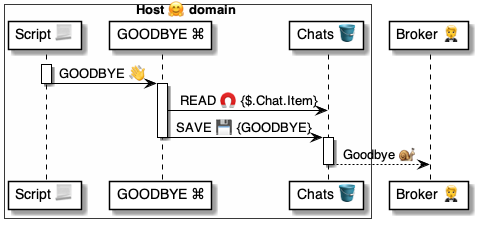
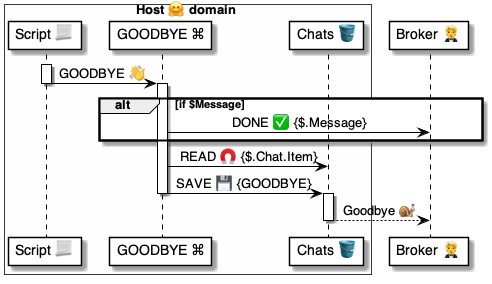
.

diff --git a/4 ⚙ Solution/41 🎭 Domain Roles/Issuers 🎴/🎴⌘ Issuer cmds/ISSUE 🎫/🎫 ISSUE ⌘ cmd.md b/4 ⚙ Solution/41 🎭 Domain Roles/Issuers 🎴/🎴⌘ Issuer cmds/ISSUE 🎫/🎫 ISSUE ⌘ cmd.md
@@ -27,7 +27,6 @@
 
 1. **What does a [Chat 💬](<../../../../35 💬 Chats/Chats 💬/💬 Chat.md>) look like?**
 
-    
     | [Domain](<../../../../40 👥 Domains/👥 Domain/👥 Domain.md>) | [Prompt](<../../../../35 💬 Chats/Chats 💬/🤔 Prompt.md>) | [User](<../../../../20 🧑🦰 UI/Wallets 🧑🦰/🧑🦰 Wallet app/🧑🦰 Wallet 🛠 app.md>)
     | - | - | - |
     | 🎴 [Issuer](<../../../../41 🎭 Domain Roles/Issuers 🎴/🎴 Issuer/🎴🎭 Issuer role.md>) | ℹ Issuing your token...
@@ -40,28 +39,46 @@
 1. **What's the ISSUE syntax?**
 
     ```yaml
-    ISSUE <schema> >> $token:
+    ISSUE >> $token:
+        Token: <token-uuid>
         Schema: <schema>
         Starts: <iso-utc-date>
         Expires: <iso-utc-date>
-        Properties: 
-            {properties}
-        Internals:
-            {internals}
+        Context: {A:1,B:2}
     ```
 
    
     | Input| Purpose | Example
     |-|-|-
     | `$token`| The [Token 🎫](<../../../../30 🧩 Data/Tokens 🎫/🎫 Token/🎫 Token.md>) issued | `{Token:X, Schema:Y}`| `Schema`  | The [Schema 🧩](<../../../../30 🧩 Data/Codes 🧩/🧩 Schema Code.md>) | `.TOKEN:1.0`
+    | `Token` | [Token 🎫](<../../../../30 🧩 Data/Tokens 🎫/🎫 Token/🎫 Token.md>) ID | `<token-uuid>`
+    || Defaults to [`.UUID`](<../../../../37 Scripts 📃/📃 Functions 🐍/🐍 System 🔩 functions/UUID ⓕ.md>)
     | `Starts` | Optional ISO UTC date | `2024-09-21T12:34:00Z`
+    |           | Defaults to [`.Now`](<../../../../37 Scripts 📃/📃 Functions 🐍/🐍 System 🔩 functions/Now ⓕ.md>)
     | `Expires` | Optional ISO UTC date | `2024-09-21T12:34:00Z`
-    | `Properties`| User public properties | `{A:1, B:2}`
-    | `Properties`| [Issuer 🎴](<../../../../41 🎭 Domain Roles/Issuers 🎴/🎴 Issuer/🎴🎭 Issuer role.md>) internal notes | `{A:1, B:2}`
+    | `Context`| User public properties | `{A:1,B:2}`
 
     ---
     <br/>
 
+1. **What are alternative syntaxes?**
+
+    ```yaml
+    ISSUE: <schema> >> $token
+    ```
+
+    ```yaml
+    ISSUE: <schema>
+    ```
+
+    ```yaml
+    ISSUE >> $token:
+        Schema: <schema>
+    ```
+
+    ---
+    <br/>
+   
 1. **What does a Talker look like?**
     
     ```yaml
@@ -71,7 +88,7 @@
 
     - ISSUE >> $token:
         Schema: any-authority.dom/ANY-SCHEMA:1.0
-        Properties: 
+        Context: 
             Number: 123456789
 
     - IF $token:

diff --git a/4 ⚙ Solution/45 🤲 Helper domains/Billers 🤝/🤝⏩ Biller flows/Domain Subscription 👥⏩🤝/🤝 Domain Subscription ⏩ flow.md b/4 ⚙ Solution/45 🤲 Helper domains/Billers 🤝/🤝⏩ Biller flows/Domain Subscription 👥⏩🤝/🤝 Domain Subscription ⏩ flow.md
@@ -5,12 +5,12 @@
     ![](<🤝 Domain Subscription 🏞 img.png>)
 
     Users with ADMIN [Tokens 🎫](<../../../../30 🧩 Data/Tokens 🎫/🎫 Token/🎫 Token.md>) sign contracts on behalf of [Issuer 🎴 domains](<../../../../41 🎭 Domain Roles/Issuers 🎴/🎴 Issuer/🎴🎭 Issuer role.md>) that issued them 
-    * e.g., for `any-biller.dom` to accept the signature of a user on behalf of `any-domain.dom`, the user needs to hold a [`.HOST/ADMIN 🧩`](<../../../../41 🎭 Domain Roles/Hosts 🤗/🤗🧩 Host schemas/🧩 HOST'ADMIN.md>) [Token](<../../../../30 🧩 Data/Tokens 🎫/🎫 Token/🎫 Token.md>) issued by `any-domain.dom`;
+    * e.g., for `any-biller.dom` to accept the signature of a user on behalf of `any-domain.dom`, the user needs to hold a [`.DOMAIN/ADMIN 🧩`](<../../../../41 🎭 Domain Roles/Hosts 🤗/🤗🧩 Host schemas/🧩 DOMAIN'ADMIN.md>) [Token](<../../../../30 🧩 Data/Tokens 🎫/🎫 Token/🎫 Token.md>) issued by `any-domain.dom`;
 
     The following additional preconditions must be met:
-    - the user has an [`.HOST/ADMIN 🧩`](<../../../../41 🎭 Domain Roles/Hosts 🤗/🤗🧩 Host schemas/🧩 HOST'ADMIN.md>) [Token 🎫](<../../../../30 🧩 Data/Tokens 🎫/🎫 Token/🎫 Token.md>) issued by the domain.
+    - the user has a [`.DOMAIN/ADMIN 🧩`](<../../../../41 🎭 Domain Roles/Hosts 🤗/🤗🧩 Host schemas/🧩 DOMAIN'ADMIN.md>) [Token 🎫](<../../../../30 🧩 Data/Tokens 🎫/🎫 Token/🎫 Token.md>) issued by the domain.
 
     The subscription workflow as the following additional steps:
-    - the [Seller 💵 domain](<../../../../41 🎭 Domain Roles/Sellers 💵/💵 Seller /💵🎭 Seller role.md>) asks the user to share the domain's [`.HOST/ADMIN 🧩`](<../../../../41 🎭 Domain Roles/Hosts 🤗/🤗🧩 Host schemas/🧩 HOST'ADMIN.md>) [Token 🎫](<../../../../30 🧩 Data/Tokens 🎫/🎫 Token/🎫 Token.md>).
+    - the [Seller 💵 domain](<../../../../41 🎭 Domain Roles/Sellers 💵/💵 Seller /💵🎭 Seller role.md>) asks the user to share the domain's [`.DOMAIN/ADMIN 🧩`](<../../../../41 🎭 Domain Roles/Hosts 🤗/🤗🧩 Host schemas/🧩 DOMAIN'ADMIN.md>) [Token 🎫](<../../../../30 🧩 Data/Tokens 🎫/🎫 Token/🎫 Token.md>).
 
     ---

diff --git a/3 🤝 Use Cases/02 🍲 Eat & Drink/60 🍽 Restaurants/31 🌐 Web: Book table 🗓.md b/3 🤝 Use Cases/02 🍲 Eat & Drink/60 🍽 Restaurants/31 🌐 Web: Book table 🗓.md
@@ -33,31 +33,37 @@
 ```yaml
 💬|Reserve a table:
 
-- READ Places|$.Chat.Key >> $place  # Get the restaurant info
-- INFO {$place.Name}                # Show the restaurant name
+- READ >> $place:                   # Get the restaurant info
+    Set: Places
+    Key: $.Chat.Key
+- INFO: {$place.Name}                # Show the restaurant name
 - CONFIRM: Hi! Book a table?         # Confirm booking intent
 - CONFIRM: At {$place.Name}?         # Confirm the restaurant   
 - INFORM: Book                       # Announce query intents
-- CALL Slots|$place.ID >> $slots    # Get available slots
-- READ Files|{$place.ID}.md >> $inf # Get restaurant details
-- SHARE .SCHEDULER/BOOK >> $slot:   # Ask for slot selection
-    About: $i
-    Slots: $slots     
-- SHARE .PERSONA/BOOKING >> $call   # Ask for user contacts
-- SHARE >> $likes:                  # Ask for preferences
+- CALL: Slots|$place.ID >> $slots    # Get available slots
+- READ >> $inf:                      # Get restaurant details
+    Set: Files
+    Key: '{$place.ID}.md'
+- SHARE >> $slot:                    # Ask for slot selection
+    Schema: .SCHEDULER/BOOK
+    Context: 
+        About: $i
+        Slots: $slots     
+- SHARE >> $call:                    # Ask for user contacts
+    Schema: .PERSONA/BOOKING
+- SHARE >> $likes:                   # Ask for preferences
     Schema: .PERSONA/MEAL/LIKES
 - CONFIRM: Confirm booking?          # Ask for confirmation
-- FREEZE                            # Lock the inputs
-- SAVE Bookings >> $booking:        # Save the booking
+- FREEZE                             # Lock the inputs
+- SAVE Bookings >> $booking:         # Save the booking
     Place: $place.ID
     Slot: $slot
     Call: $call
     Likes: $likes
-- ISSUE:                            # Issue a Token
+- ISSUE:                             # Issue a Token
     Schema: .HOST/BOOKING/SELF
-    Key: $booking.ID
-- DONE: Done. See you then!          # Confirm booking
-- GOODBYE                           # Show follow-up actions
+    Token: $booking.ID
+- GOODBYE: Done. See you then!       # Confirm booking
 ```
 
 Uses||

diff --git a/4 ⚙ Solution/41 🎭 Domain Roles/Helpers 🤲/🤲😃 Helper talkers/Bind Domain 👥/🤲 Bind Domain 😃 talker.md b/4 ⚙ Solution/41 🎭 Domain Roles/Helpers 🤲/🤲😃 Helper talkers/Bind Domain 👥/🤲 Bind Domain 😃 talker.md
@@ -27,15 +27,20 @@
 
 ```yaml
 📃 Bind Domain:
+- ASSERT: $.Chat.Wallet  # Ensure there's a wallet
 - INFORM: Bind Domain    # Announce what's coming
-- BIND: .HOST/ADMIN      # Ask to bind the domain
+- SHARE: .DOMAIN/ADMIN >> $token # Ask for a domain
+- IDENTIFY: $token       # Identify the Token's user
+- SAVE Helper.Domains:
+    Domain: $token.Issuer
+    Wallet: $.Chat.Wallet
 - DONE: Domain bound!    # Confirmation
 ```
 
 Uses||
 |-|-
-| [Commands ⌘](<../../../../35 💬 Chats/Scripts 📃/Command ⌘.md>) | [`BIND`](<../../../Vaults 🗄/🗄⌘ Vault cmds/BIND 🔗/🔗 BIND ⌘ cmd.md>) [`DONE`](<../../../../37 Scripts 📃/📃 Prompts 🤔/🤔 Status ⚠ prompts/DONE ✅/DONE ✅ prompt.md>) [`INFORM`](<../../../Consumers 💼/💼⌘ Consumer cmds/INFORM 📝/📝 INFORM ⌘ cmd.md>) 
-| [Schema Codes 🧩](<../../../../30 🧩 Data/Codes 🧩/🧩 Schema Code.md>) | [`.HOST/ADMIN`](<../../../Hosts 🤗/🤗🧩 Host schemas/🧩 HOST'ADMIN.md>)
+| [Commands ⌘](<../../../../35 💬 Chats/Scripts 📃/Command ⌘.md>) | [`BIND`](<../../../Vaults 🗄/🗄⌘ Vault cmds/BIND 🔗/🔗 BIND ⌘ cmd.md>) [`DONE`](<../../../../37 Scripts 📃/📃 Prompts 🤔/🤔 Status ⚠ prompts/DONE ✅/DONE ✅ prompt.md>) [`IDENTIFY`](<../../../Consumers 💼/💼⌘ Consumer cmds/IDENTIFY 🆔/🆔 IDENTIFY ⌘ cmd.md>) [`INFORM`](<../../../Consumers 💼/💼⌘ Consumer cmds/INFORM 📝/📝 INFORM ⌘ cmd.md>) 
+| [Schema Codes 🧩](<../../../../30 🧩 Data/Codes 🧩/🧩 Schema Code.md>) | [`.DOMAIN/ADMIN`](<../../../Hosts 🤗/🤗🧩 Host schemas/🧩 DOMAIN'ADMIN.md>)
 
 <br/>
 
@@ -43,6 +48,6 @@ Uses||
 
 ```yaml
 Forms: 
-    Bind Domain: .HOST/ADMIN
+    Bind Domain: .DOMAIN/ADMIN
 ```
 

diff --git a/4 ⚙ Solution/41 🎭 Domain Roles/Hosts 🤗/🤗⌘ Host cmds/GOODBYE 👋/👋 GOODBYE 📃 script.md b/4 ⚙ Solution/41 🎭 Domain Roles/Hosts 🤗/🤗⌘ Host cmds/GOODBYE 👋/👋 GOODBYE 📃 script.md
@@ -15,7 +15,8 @@
 ## How to call
 
 ```yaml
-- RUN .GOODBYE
+- RUN .GOODBYE:
+    Message: Optional message
 ```
 Uses: [`RUN`](<../../../../37 Scripts 📃/📃 Commands ⌘/⌘ for control ▶/RUN 🏃/🏃 RUN ⌘ cmd.md>)
 
@@ -26,6 +27,14 @@ Uses: [`RUN`](<../../../../37 Scripts 📃/📃 Commands ⌘/⌘ for control ▶
 ```yaml
 📃 .GOODBYE:
 
+# Assert the message
+- ASSERT:
+    Texts: $Message
+
+# Show the goodbye message, if any
+- IF $Message:
+    DONE: $Message
+
 # Save the chat
 - SAVE $.Chat.Item:
     .State: GOODBYE    
@@ -33,7 +42,7 @@ Uses: [`RUN`](<../../../../37 Scripts 📃/📃 Commands ⌘/⌘ for control ▶
 
 |Uses||
 |-|-
-| [Commands ⌘](<../../../../35 💬 Chats/Scripts 📃/Command ⌘.md>) |  [`SAVE`](<../../../../37 Scripts 📃/📃 Commands ⌘/⌘ for datasets 🪣/SAVE 💾/💾 SAVE ⌘ cmd.md>)
+| [Commands ⌘](<../../../../35 💬 Chats/Scripts 📃/Command ⌘.md>) | [`DONE`](<../../../../37 Scripts 📃/📃 Prompts 🤔/🤔 Status ⚠ prompts/DONE ✅/DONE ✅ prompt.md>) [`IF`](<../../../../37 Scripts 📃/📃 Commands ⌘/⌘ for control ▶/IF ⤵/⤵ IF ⌘ cmd.md>) [`SAVE`](<../../../../37 Scripts 📃/📃 Commands ⌘/⌘ for datasets 🪣/SAVE 💾/💾 SAVE ⌘ cmd.md>)
 | [Datasets 🪣](<../../../../30 🧩 Data/Datasets 🪣/🪣 Dataset.md>) | [`Host.Chats`](<../../../../41 🎭 Domain Roles/Hosts 🤗/🤗🪣 Host tables/Chats 💬 table/🪣 Chats/🤗 Host.Chats 🪣 table.md>)
 | [Holders 🧠](<../../../../35 💬 Chats/Scripts 📃/Holder 🧠.md>) | [`$.Chat`](<../../../../37 Scripts 📃/📃 Holders 🧠/System holders 🔩/$.Chat 💬/💬 $.Chat 🧠 holder.md>) 
 |

diff --git a/4 ⚙ Solution/45 🤲 Helper domains/Hosters ☁/☁ Hoster helper/☁ Hoster 🤲 helper.md b/4 ⚙ Solution/45 🤲 Helper domains/Hosters ☁/☁ Hoster helper/☁ Hoster 🤲 helper.md
@@ -41,7 +41,7 @@
     |-|-|-
     | ☁ Hoster | 😃 Hi! What do you need? <br/>- [ Host ] a domain | > Host
     | [🤵 Broker](<../../../20 🧑🦰 UI/Brokers 🤵/🤵 Broker helper/🤵 Broker 🤲 helper.md>) | 🫥 [Bind?](<../../../20 🧑🦰 UI/Wallets 🧑🦰/🧑🦰💬 Wallet chats/...in Prompts 🤔/Bind 👉🗄🔗/🧑🦰 Bind Vault ⏩ flow.md>) [Yes, No, +] <br/>- [Vault 🧩](<../../../41 🎭 Domain Roles/Vaults 🗄/🗄🧩 Vault schemas/🧩 VAULT'SELF.md>) | > Yes 
-    | 🤵 [Broker](<../../../20 🧑🦰 UI/Brokers 🤵/🤵 Broker helper/🤵 Broker 🤲 helper.md>) | 🫥 Save token? [Yes, No] <br/> - [Host Admin 🧩](<../../../41 🎭 Domain Roles/Hosts 🤗/🤗🧩 Host schemas/🧩 HOST'ADMIN.md>)  | > Yes
+    | 🤵 [Broker](<../../../20 🧑🦰 UI/Brokers 🤵/🤵 Broker helper/🤵 Broker 🤲 helper.md>) | 🫥 Save token? [Yes, No] <br/> - [Host Admin 🧩](<../../../41 🎭 Domain Roles/Hosts 🤗/🤗🧩 Host schemas/🧩 DOMAIN'ADMIN.md>)  | > Yes
     | ☁ Hoster | ℹ [Clone](<../../../55 👷 Build domains/Syncers 🔃/🔃⏩ Syncer flows/10 🔃⏩🗂 Clone.md>) with: `syncer \`<br/>`clone any-hoster.dom 12345`
     | ☁ Hoster | ⏳ Waiting for one minute... | (clone)
     | ☁ Hoster | ℹ Received `67890`.

diff --git a/4 ⚙ Solution/41 🎭 Domain Roles/Hosts 🤗/🤗🧩 Host schemas/🧩 DOMAIN'ADMIN.md b/4 ⚙ Solution/41 🎭 Domain Roles/Hosts 🤗/🤗🧩 Host schemas/🧩 DOMAIN'ADMIN.md
@@ -1,7 +1,6 @@
 
 # [🧩](<../../../30 🧩 Data/Codes 🧩/🧩 Schema Code.md>) [`HOST`](<🧩 HOST.md>)/`ADMIN`
 
-<br/>
 
 ## Definition
 
@@ -9,11 +8,19 @@
 
 ```yaml
 Path: /HOST/ADMIN
-Title: Domain admin
 
+Title: Domain admin
 Translations:
     pt-br: Admin de domínio
 
-Version: 1.0
-Inherits: nlweb.dom/TOKEN:1.0  
+Fields: 
+    Domain: Domain to administer
+
+Example:
+    Domain: mydomain.dom
+
+Asserts:
+    AllOf: Domain
+    Domain.IsDomain: 
 ```    
+Use: [`.IsDomain`](<../../../37 Scripts 📃/📃 Functions 🐍/🐍 System 🔩 functions/IsDomain ⓕ.md>)

diff --git a/4 ⚙ Solution/41 🎭 Domain Roles/Suppliers 🏭/🏭🪣 Supplier tables/Domains 👥/🏭 Supplier.Domains 🪣 table.md b/4 ⚙ Solution/41 🎭 Domain Roles/Suppliers 🏭/🏭🪣 Supplier tables/Domains 👥/🏭 Supplier.Domains 🪣 table.md
@@ -45,7 +45,7 @@ Bind: <bind-uuid>       # Wallet bound
 Domain: any-domain.dom  # Domain to administer
 ```
 
-[Token 🎫](<../../../../30 🧩 Data/Tokens 🎫/🎫 Token/🎫 Token.md>) of [`HOST/ADMIN` 🧩 schema](<../../../Hosts 🤗/🤗🧩 Host schemas/🧩 HOST'ADMIN.md>).
+[Token 🎫](<../../../../30 🧩 Data/Tokens 🎫/🎫 Token/🎫 Token.md>) of [`HOST/ADMIN` 🧩 schema](<../../../Hosts 🤗/🤗🧩 Host schemas/🧩 DOMAIN'ADMIN.md>).
 
 ```yaml
 Token: 

diff --git a/4 ⚙ Solution/41 🎭 Domain Roles/Helpers 🤲/🤲🪣 Helper tables/Domains 👥 table/🪣 Domains/🤲 Helper.Domains 🪣 table.md b/4 ⚙ Solution/41 🎭 Domain Roles/Helpers 🤲/🤲🪣 Helper tables/Domains 👥 table/🪣 Domains/🤲 Helper.Domains 🪣 table.md
@@ -1,0 +1,24 @@
+# 🤲 Helper.Domains 🪣 table
+
+> About
+* Part of the [`Helper` 🤲 domain role](<../../../🤲 Helper/🤲🎭 Helper role.md>)
+
+<br/>
+
+## Schema
+
+```yaml
+Prefix: Helper
+Table: Domains
+Item: Domain
+Key: Domain
+```
+
+<br/>
+
+## Example
+
+```yaml
+Domain: any-domain.dom 
+Wallet: <wallet-uuid>  
+```

diff --git a/4 ⚙ Solution/41 🎭 Domain Roles/Suppliers 🏭/🏭🪣 Supplier tables/Domains 👥/🏭 Supplier.Domains 😃 talk.md b/4 ⚙ Solution/41 🎭 Domain Roles/Suppliers 🏭/🏭🪣 Supplier tables/Domains 👥/🏭 Supplier.Domains 😃 talk.md
@@ -6,7 +6,7 @@
 💬 Register Domain:
 
 - BIND: .HOST >> $bind
-- SHARE .HOST/ADMIN >> $token
+- SHARE: .DOMAIN/ADMIN >> $token
 - SAVE Supplier.Domains >> $domain:
     Domain: $token.Issuer
     Bind: $bind.ID

diff --git a/4 ⚙ Solution/41 🎭 Domain Roles/Hosts 🤗/🤗⌘ Host cmds/GOODBYE 👋/👋 GOODBYE ⌘ cmd.md b/4 ⚙ Solution/41 🎭 Domain Roles/Hosts 🤗/🤗⌘ Host cmds/GOODBYE 👋/👋 GOODBYE ⌘ cmd.md
@@ -18,7 +18,15 @@
 1. **What's the GOODBYE syntax?**
 
     ```yaml
+    # Simplest form
     GOODBYE
     ```
+    ```yaml
+    # With DONE message
+    GOODBYE: <message>
+    ```
+
+
+
     ---
     <br/>
